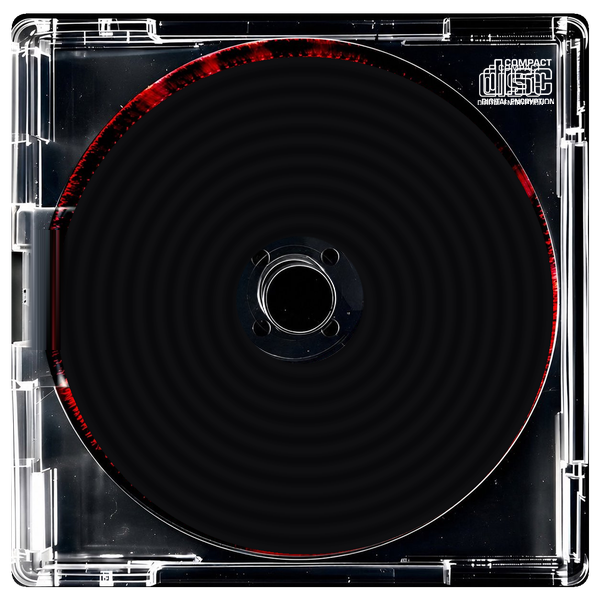
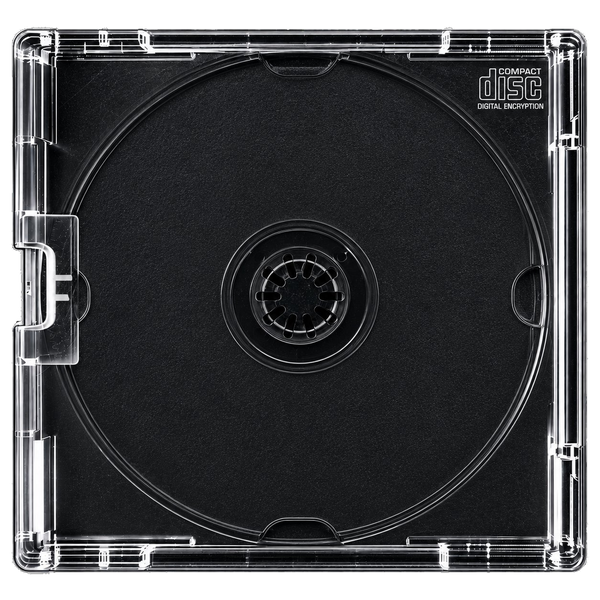
feat(artwork): stage master 3-layer jewel case sources, pipeline script, and site update (#126)

diff --git a/site/index.html b/site/index.html
@@ -81,7 +81,7 @@
       position: absolute;
       inset: 0;
       border-radius: 6px;
-      background-image: url('case-tray.png?v=2');
+      background-image: url('case-tray.png?v=3');
       background-size: cover;
       filter: drop-shadow(0 20px 40px rgba(0, 0, 0, 0.85));
     }
@@ -117,7 +117,7 @@
       position: absolute;
       inset: 0;
       border-radius: 6px;
-      background-image: url('case-lid.png?v=2');
+      background-image: url('case-lid.png?v=3');
       background-size: cover;
       transform-origin: 0% 50%;
       transform-style: preserve-3d;
@@ -245,7 +245,7 @@
         <div class="case-wrapper perspective-1000" onclick="toggleCase()" id="case-wrapper" title="Click the disc to play · click the case to open / close">
           <div class="case-container" id="jewel-case-box">
             <div class="case-tray"></div>
-            <img src="cd-512.png?v=2" alt="Play track 01" id="hero-cd" class="case-disc cd-spin paused" role="button" tabindex="0" aria-pressed="false">
+            <img src="cd-512.png?v=3" alt="Play track 01" id="hero-cd" class="case-disc cd-spin paused" role="button" tabindex="0" aria-pressed="false">
             <div class="case-lid" id="case-lid"></div>
           </div>
         </div>

diff --git a/scripts/update_site_assets.py b/scripts/update_site_assets.py
@@ -1,0 +1,93 @@
+import os
+import numpy as np
+from PIL import Image
+import scipy.ndimage as ndi
+
+base_dir = os.path.dirname(os.path.dirname(os.path.abspath(__file__)))
+site_dir = os.path.join(base_dir, 'site')
+artwork_dir = os.path.join(base_dir, '.github', 'artwork')
+
+tray_p = os.path.join(artwork_dir, 'case_tray_master.jpg')
+lid_p  = os.path.join(artwork_dir, 'case_lid_master.jpg')
+cd_p   = os.path.join(artwork_dir, 'disc_master.png')
+
+# 1. Process Tray
+tray_raw = Image.open(tray_p)
+arr_tray = np.array(tray_raw)
+bright_tray = arr_tray.max(axis=2)
+
+mask_bg = (bright_tray < 12)
+labeled, _ = ndi.label(mask_bg)
+corner_labels = set([labeled[0, 0], labeled[0, -1], labeled[-1, 0], labeled[-1, -1]])
+is_bg_tray = np.isin(labeled, list(corner_labels))
+
+alpha_tray = (~is_bg_tray).astype(np.float32) * 255.0
+alpha_tray = ndi.gaussian_filter(alpha_tray, sigma=0.8)
+rgba_tray = np.dstack([arr_tray, alpha_tray.astype(np.uint8)])
+tray_img = Image.fromarray(rgba_tray, 'RGBA')
+
+dy = 11.5
+dx = 0.5
+tray_centered = Image.new('RGBA', (1254, 1254), (0, 0, 0, 0))
+tray_centered.paste(tray_img, (int(round(dx)), int(round(dy))), tray_img)
+
+# 2. Process Lid
+lid_raw = Image.open(lid_p)
+arr_lid = np.array(lid_raw).astype(np.float32)
+bright_lid = arr_lid.max(axis=2)
+
+mask_bg_lid = (bright_lid < 8)
+labeled_lid, _ = ndi.label(mask_bg_lid)
+corner_labels_lid = set([labeled_lid[0, 0], labeled_lid[0, -1], labeled[-1, 0], labeled[-1, -1]])
+is_bg_lid = np.isin(labeled_lid, list(corner_labels_lid))
+
+alpha_lid = np.zeros_like(bright_lid)
+fg_mask_lid = ~is_bg_lid
+alpha_lid[fg_mask_lid] = np.clip(16.0 + (bright_lid[fg_mask_lid] / 255.0) * 239.0, 0, 255)
+alpha_lid = ndi.gaussian_filter(alpha_lid, sigma=0.6)
+alpha_lid[is_bg_lid] = 0
+
+rgb_lid = np.zeros_like(arr_lid, dtype=np.uint8)
+rgb_lid[:, :, 0] = 245
+rgb_lid[:, :, 1] = 248
+rgb_lid[:, :, 2] = 255
+rgba_lid = np.dstack([rgb_lid, alpha_lid.astype(np.uint8)])
+lid_img = Image.fromarray(rgba_lid, 'RGBA')
+
+lid_centered = Image.new('RGBA', (1254, 1254), (0, 0, 0, 0))
+lid_centered.paste(lid_img, (int(round(dx)), int(round(dy))), lid_img)
+
+# 3. Process CD
+cd_raw = Image.open(cd_p).convert('RGBA')
+arr_cd = np.array(cd_raw)
+
+y_idx, x_idx = np.ogrid[:arr_cd.shape[0], :arr_cd.shape[1]]
+dist_cd = np.sqrt((x_idx - 626.5)**2 + (y_idx - 622.5)**2)
+fade = np.clip((dist_cd - 142) / 3.0, 0, 1)
+arr_cd[:, :, 3] = (arr_cd[:, :, 3] * fade).astype(np.uint8)
+
+cd_clean = Image.fromarray(arr_cd, 'RGBA')
+cd_centered = Image.new('RGBA', (1254, 1254), (0, 0, 0, 0))
+cd_centered.paste(cd_clean, (int(round(0.5)), int(round(4.5))), cd_clean)
+
+# Resize to targets
+tray_600 = tray_centered.resize((600, 600), Image.Resampling.LANCZOS)
+lid_600 = lid_centered.resize((600, 600), Image.Resampling.LANCZOS)
+
+bbox_cd = cd_centered.getbbox()
+cd_crop = cd_centered.crop(bbox_cd)
+cd_512 = cd_crop.resize((512, 512), Image.Resampling.LANCZOS)
+
+tray_out = os.path.join(site_dir, 'case-tray.png')
+lid_out  = os.path.join(site_dir, 'case-lid.png')
+cd_out   = os.path.join(site_dir, 'cd-512.png')
+cd_disc  = os.path.join(site_dir, 'cd-disc.png')
+cd_main  = os.path.join(site_dir, 'cd.png')
+
+tray_600.save(tray_out)
+lid_600.save(lid_out)
+cd_512.save(cd_out)
+cd_512.save(cd_disc)
+cd_512.save(cd_main)
+
+print('All site assets successfully saved from .github/artwork/!')
